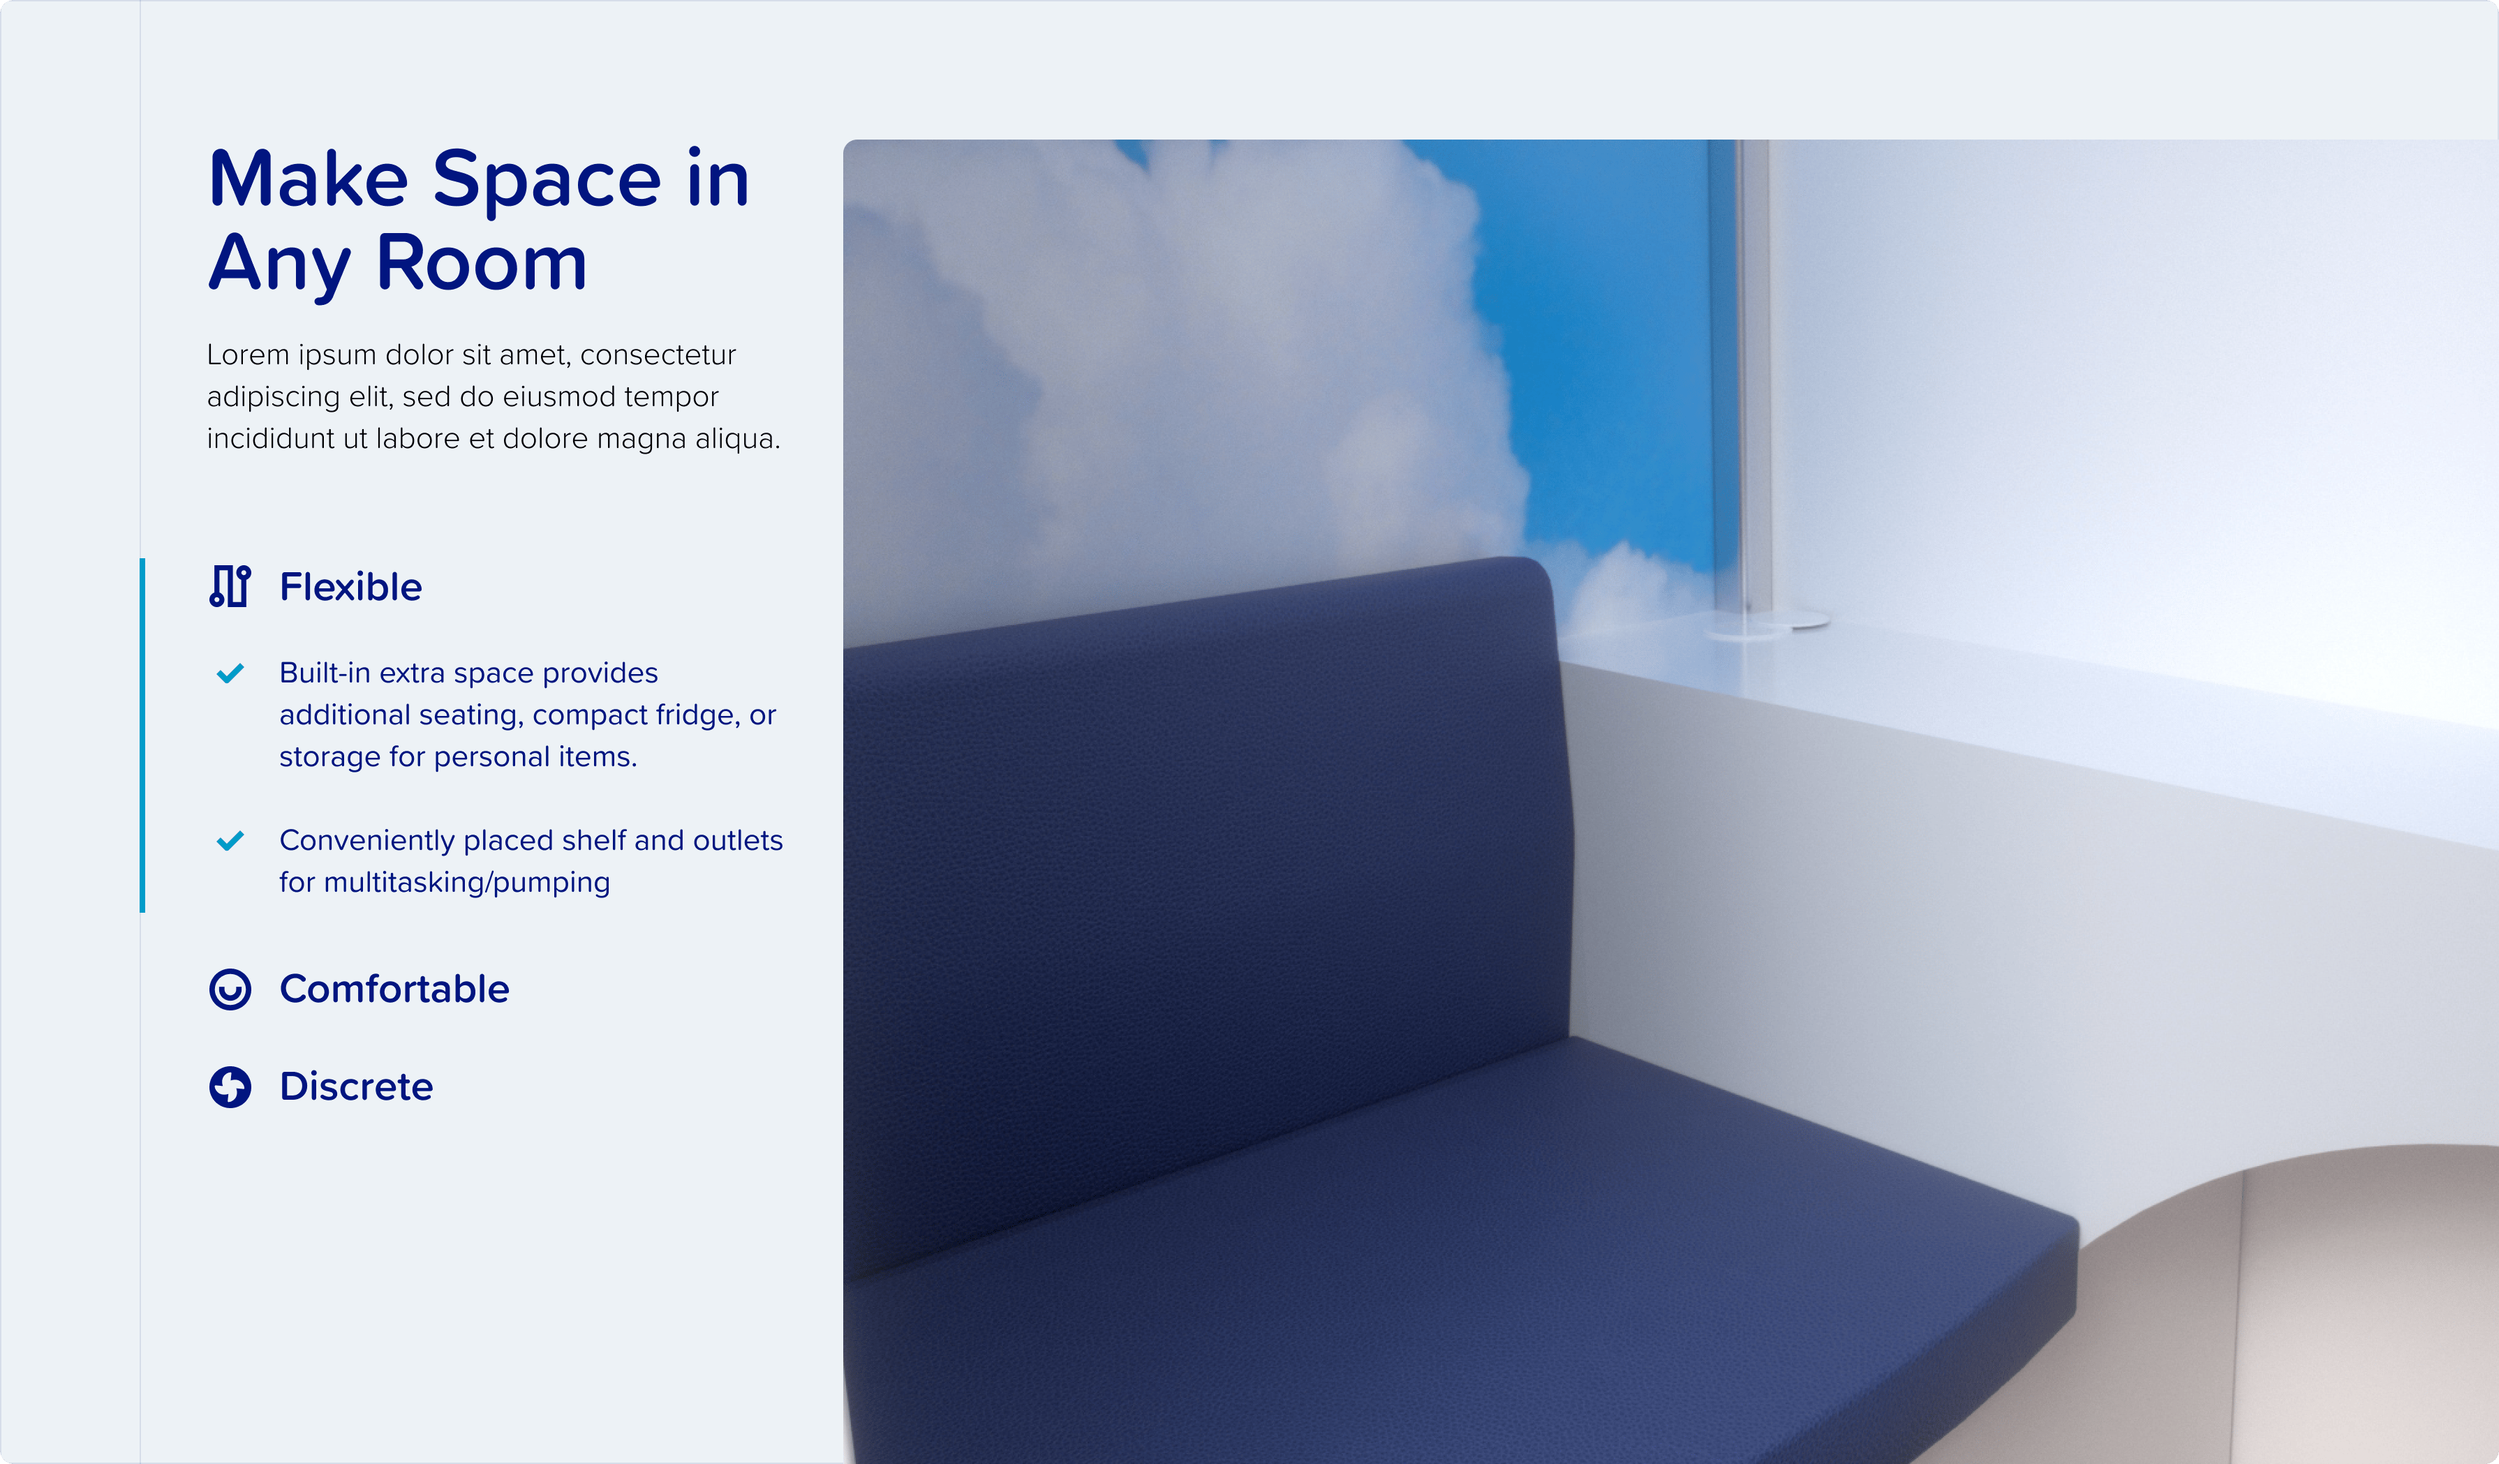
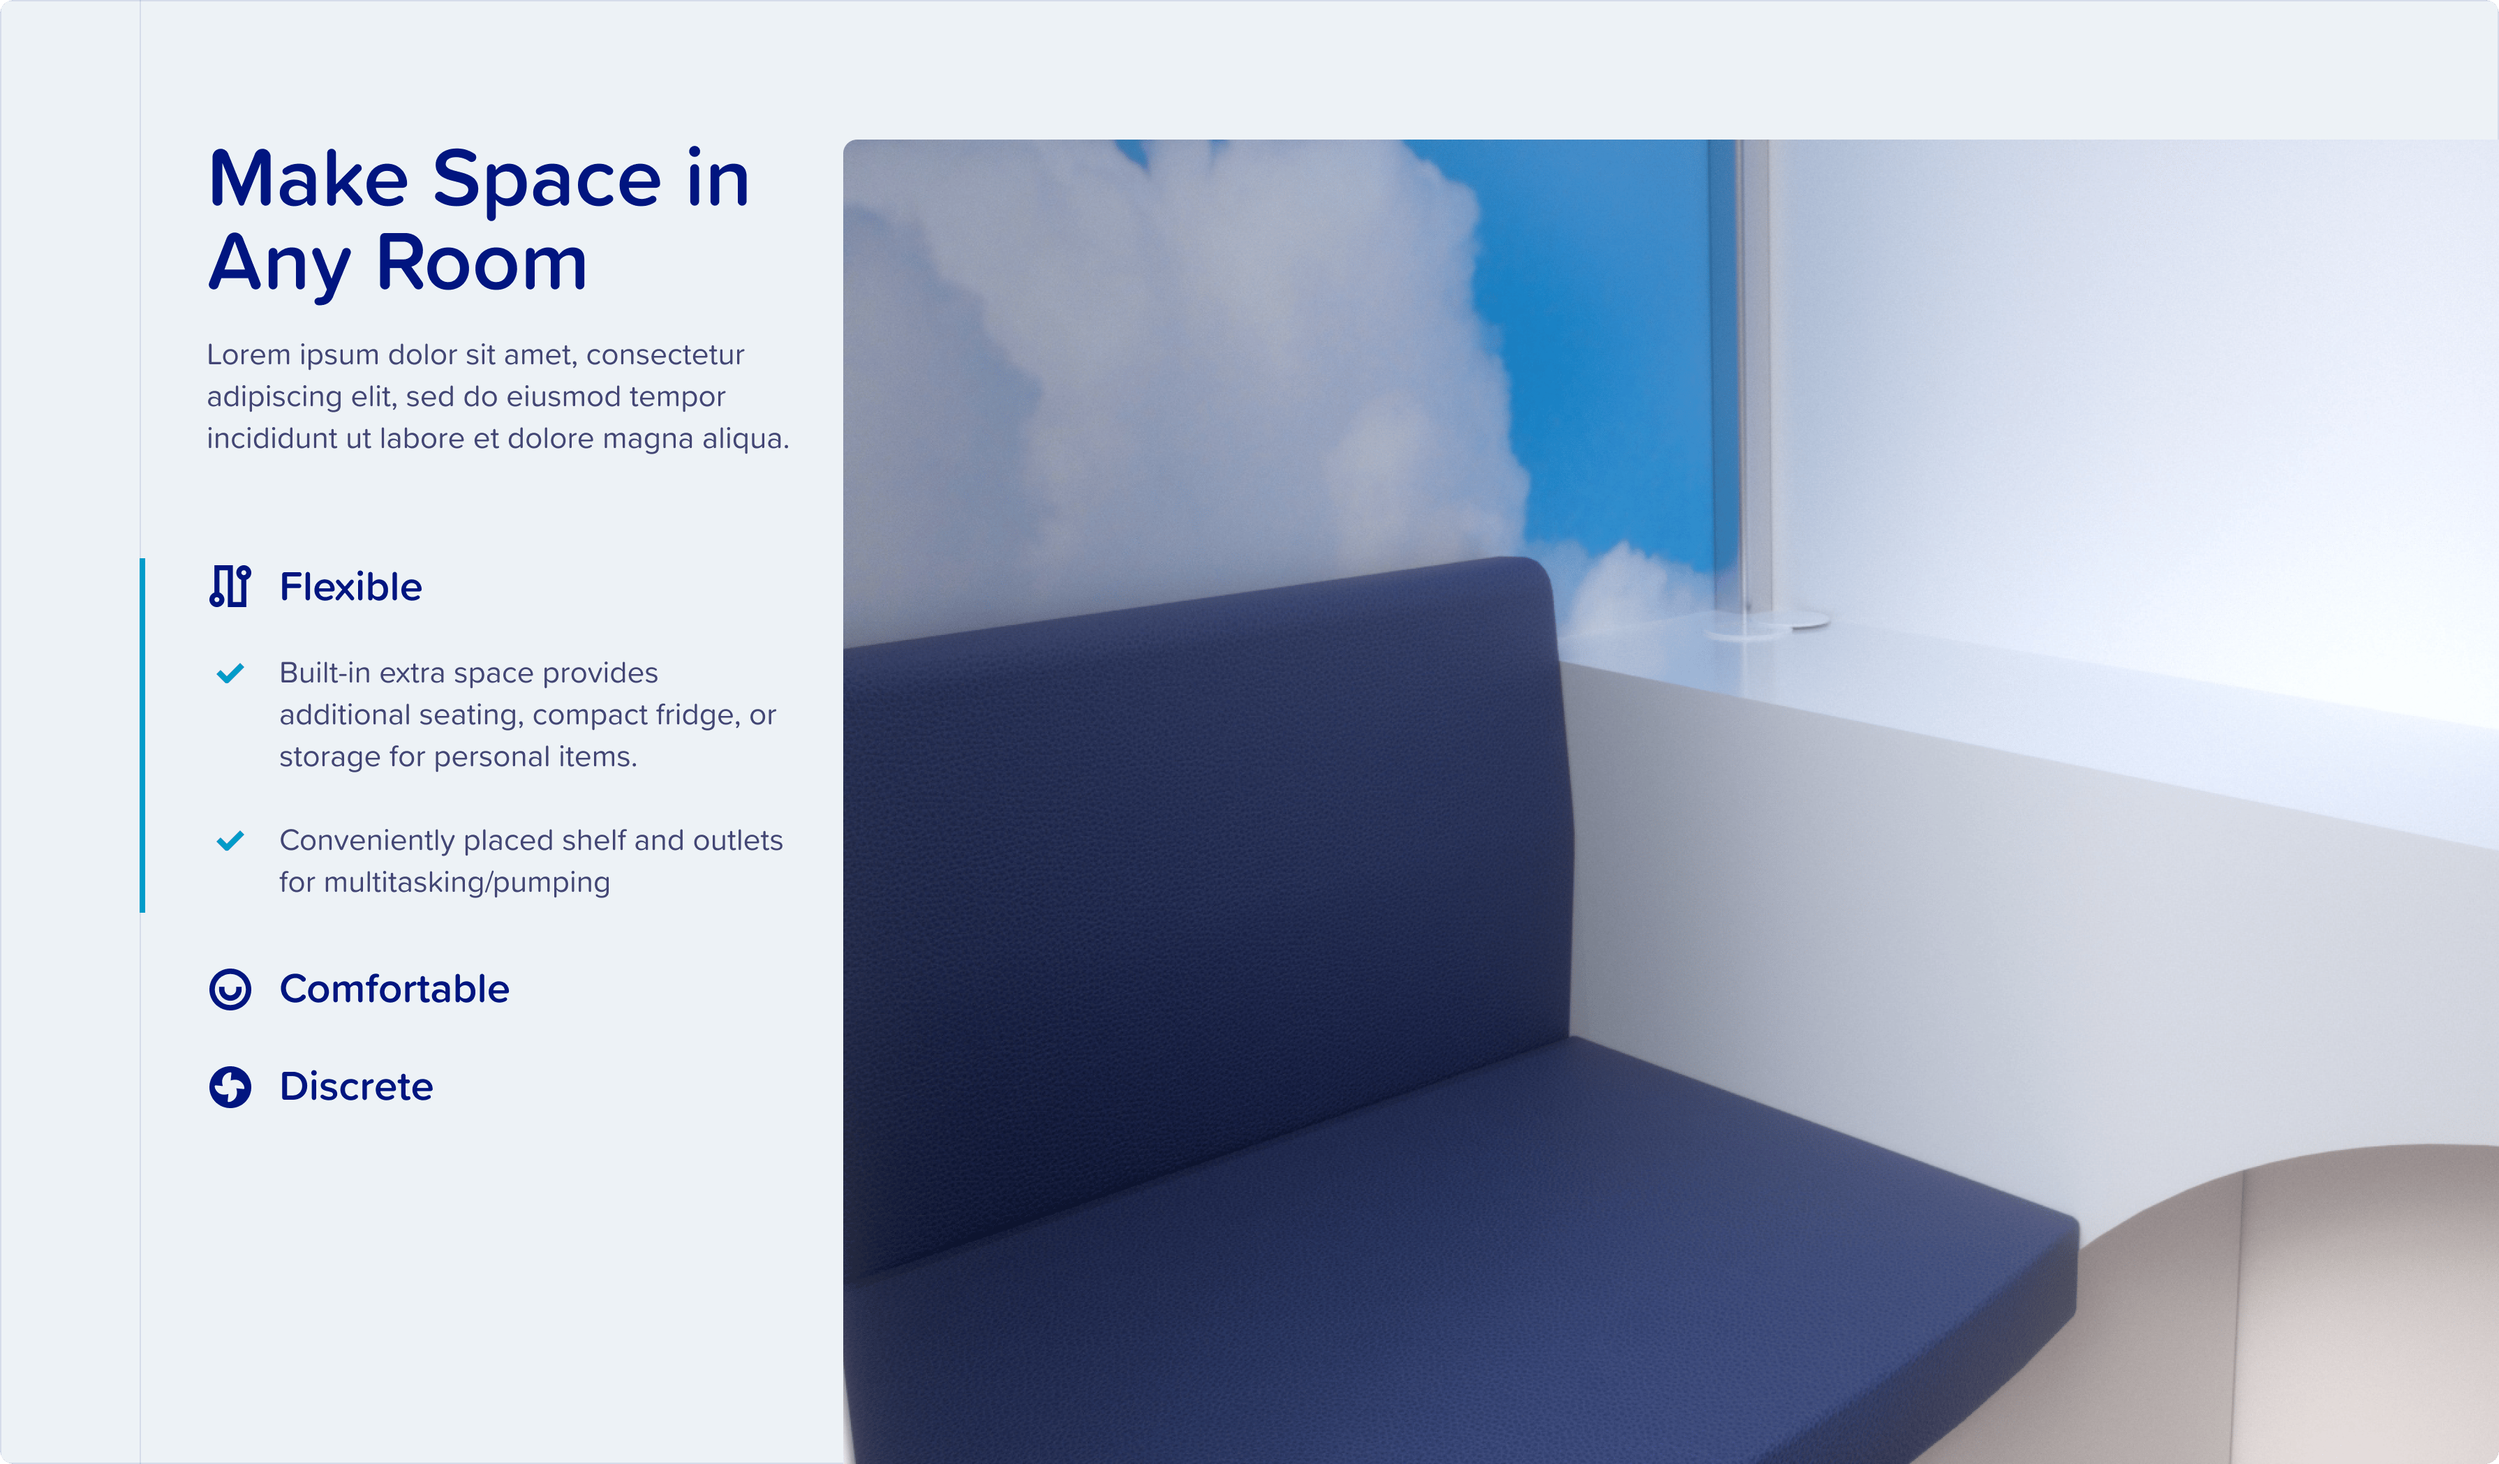
update images and text color

diff --git a/src/main.scss b/src/main.scss
@@ -1,5 +1,6 @@
 @use "sass:math";
 
+$dark-navy: #434575;
 $navy: #011580;
 $sky: #edf2f6;
 $cyan: #009cc9;
@@ -97,6 +98,11 @@ section.features {
     p {
         margin: 0;
         font-size: vwmin(22px);
+        color: $dark-navy;
+    }
+
+    li {
+        color: $dark-navy;
     }
 
     .features-pin {
